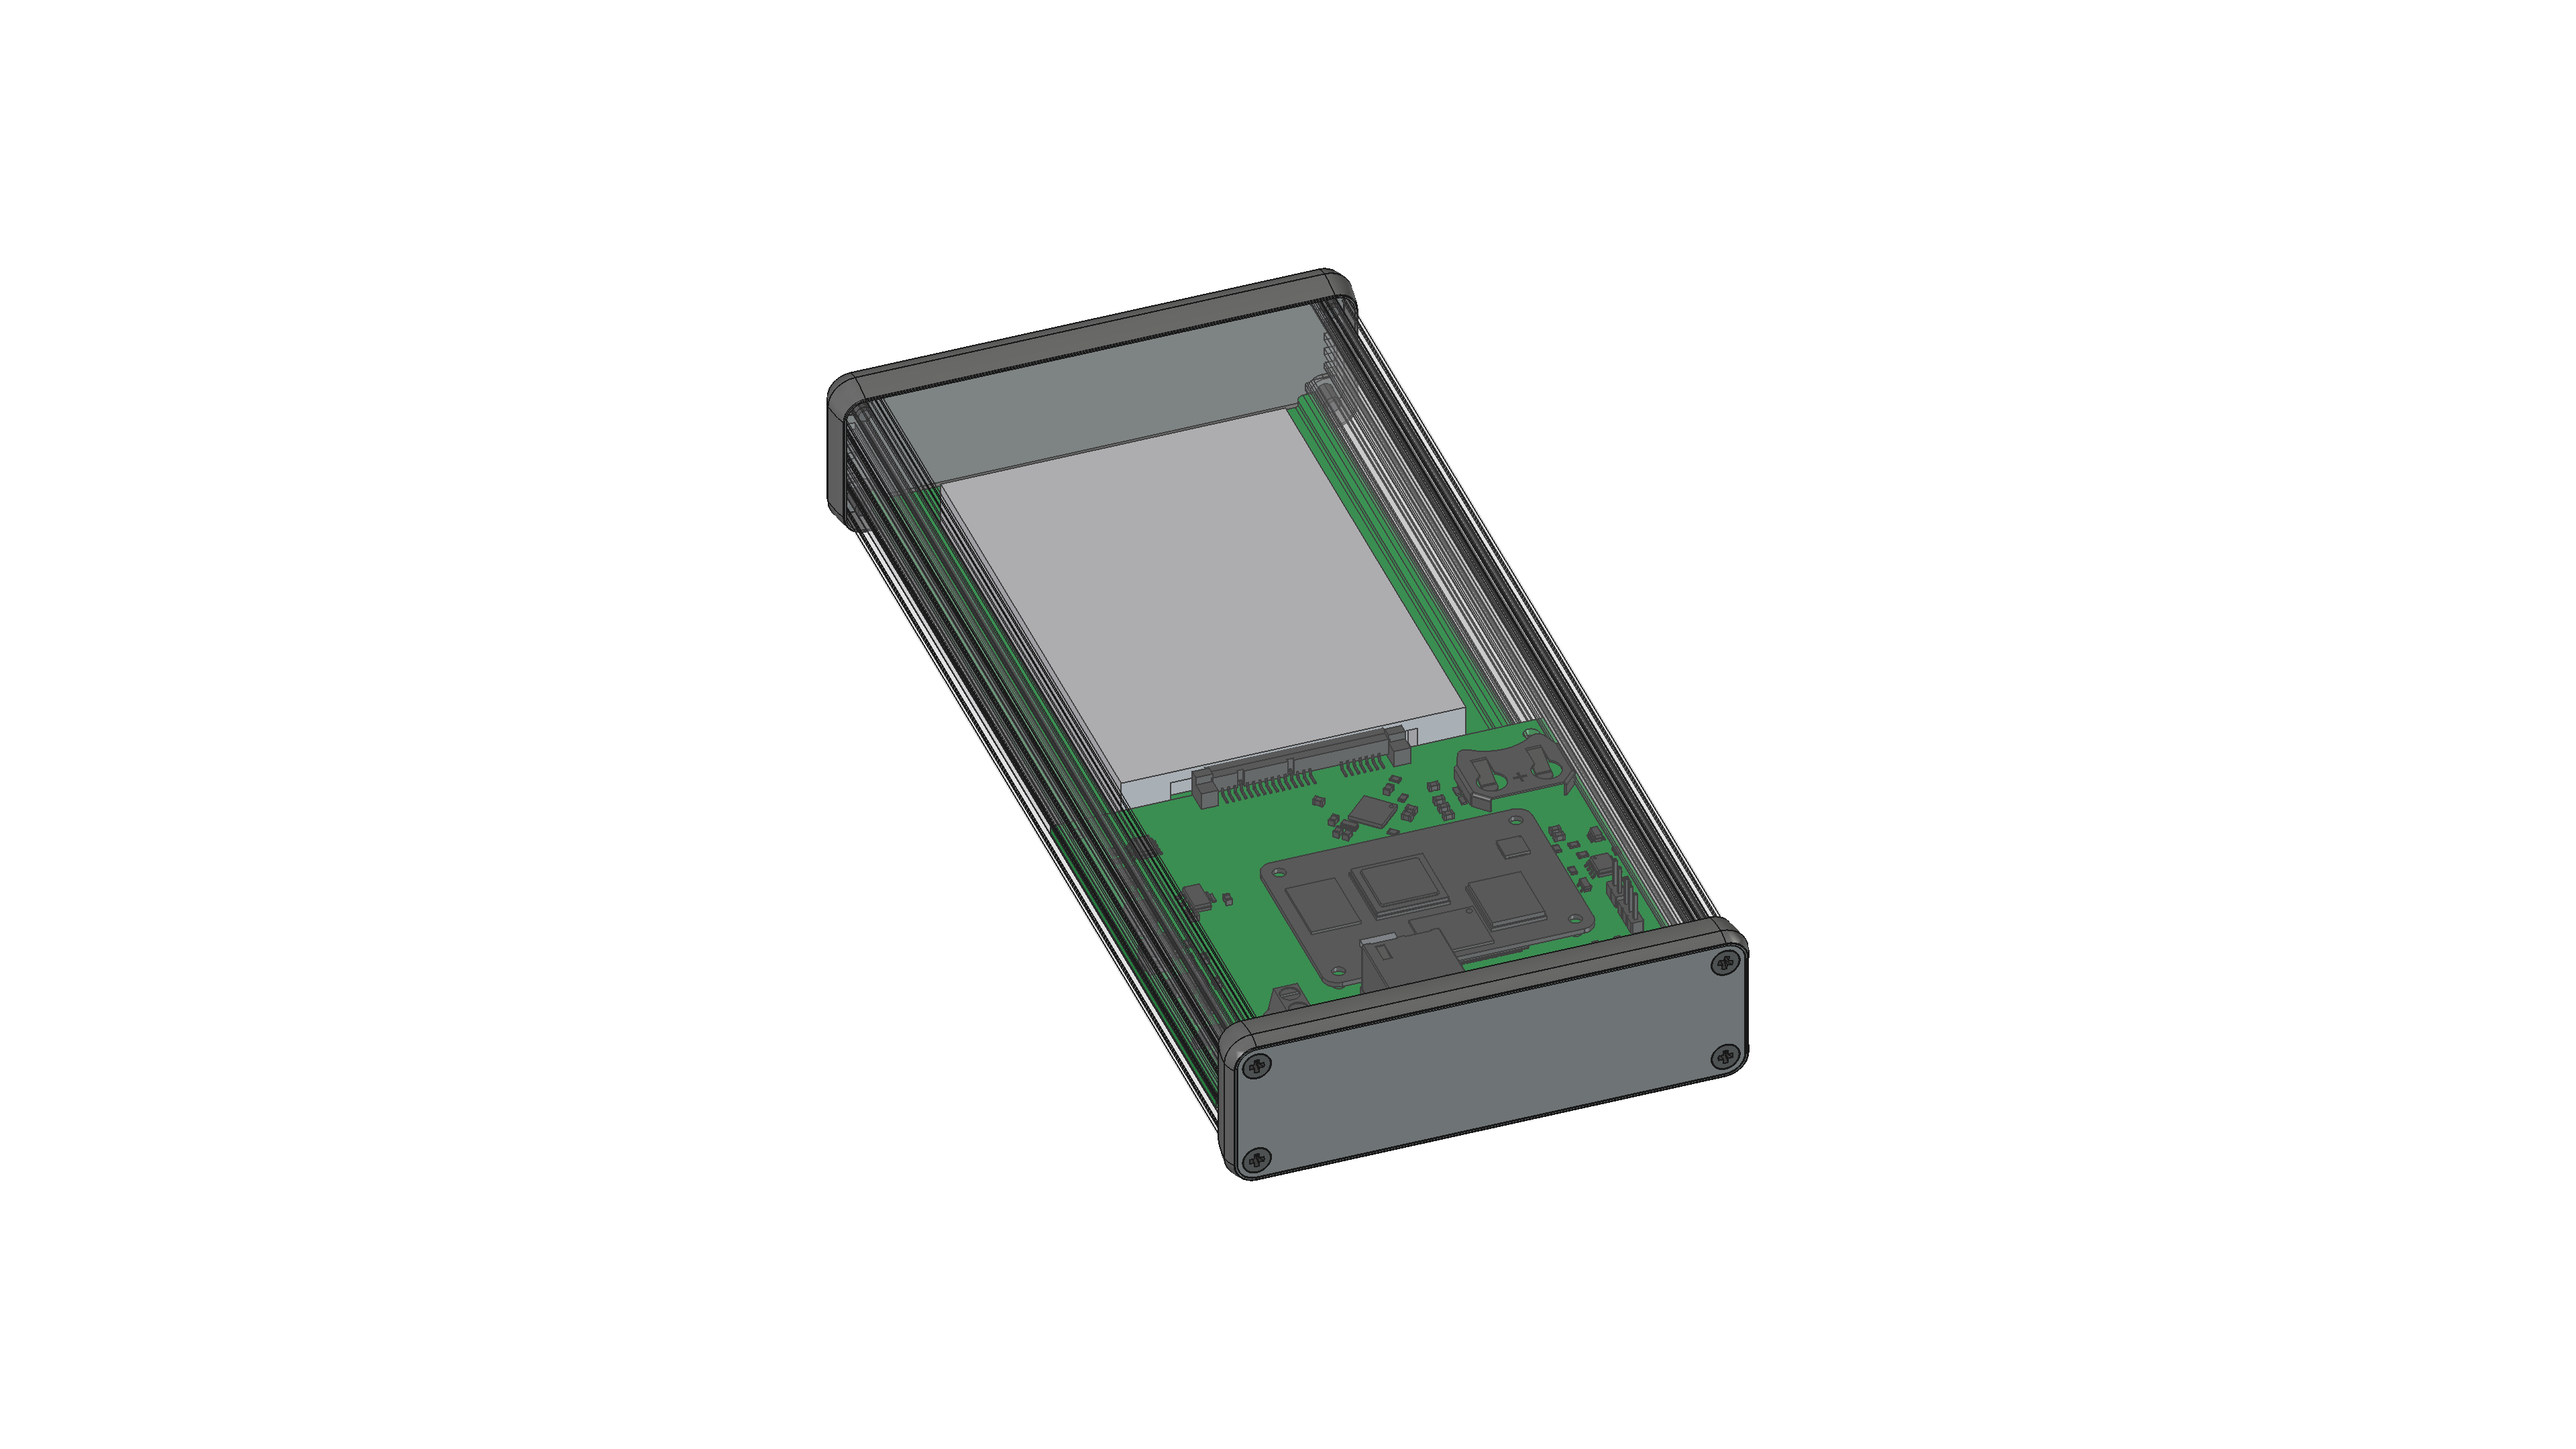
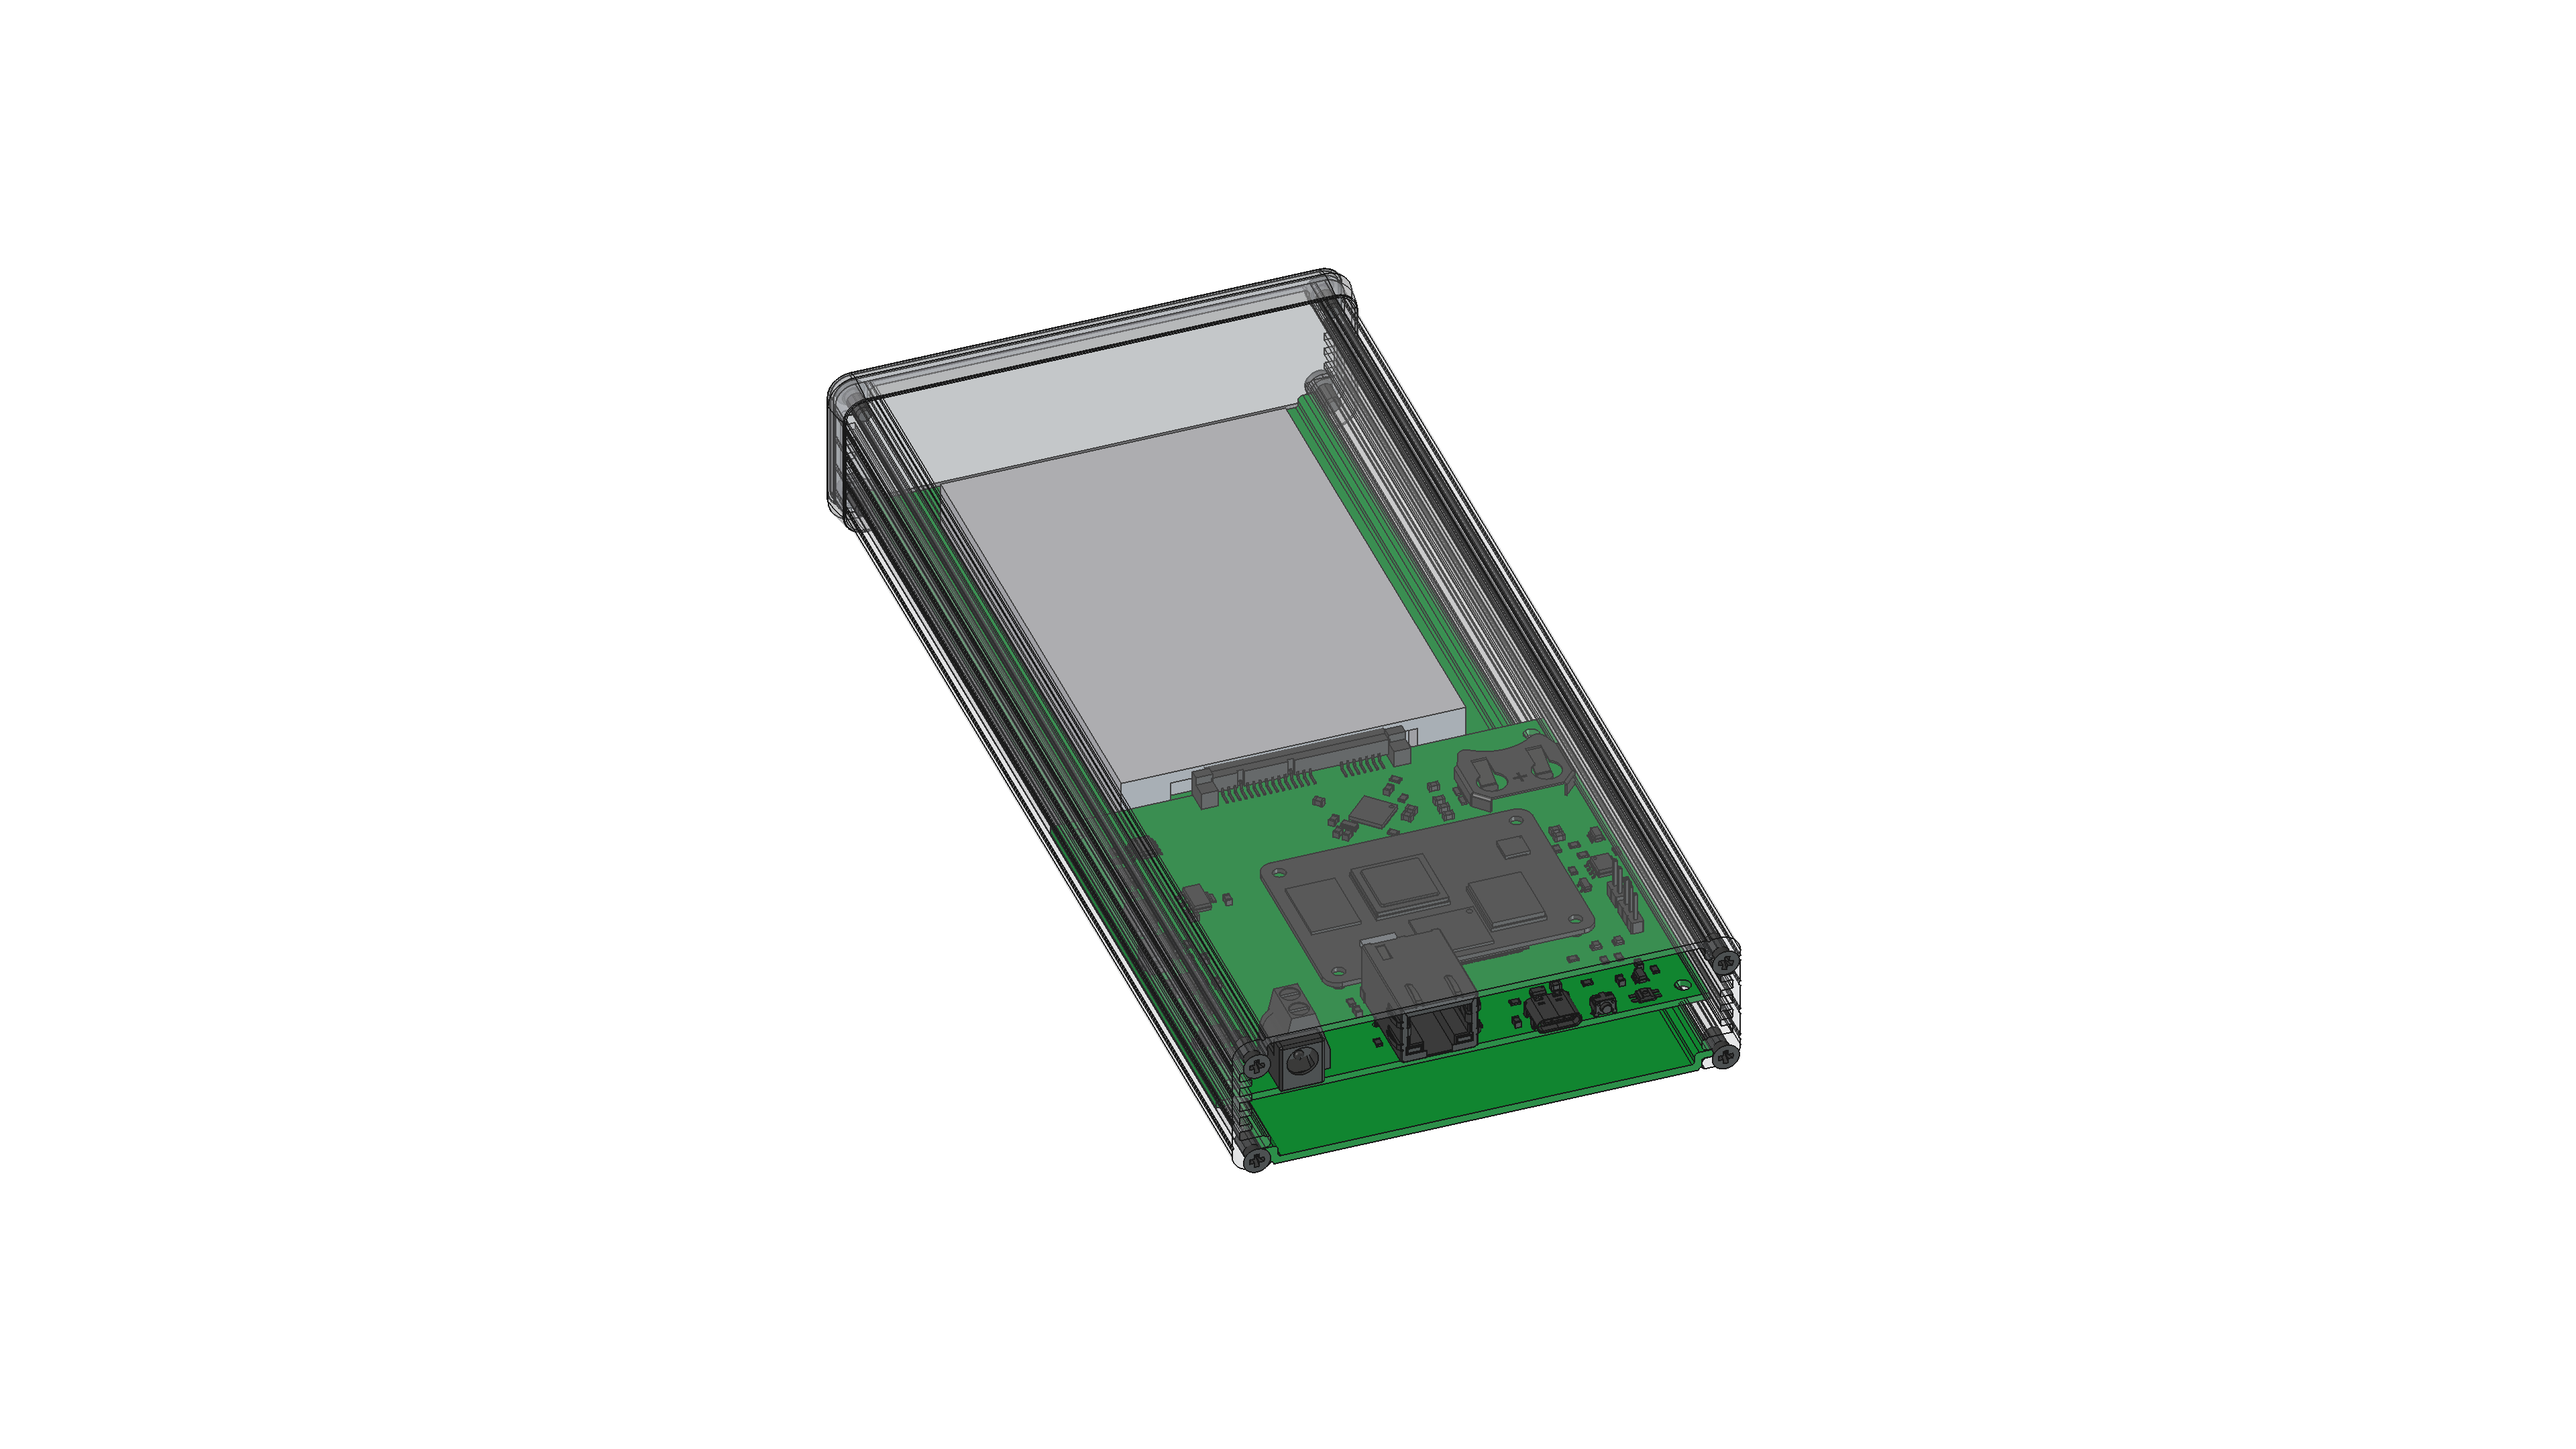
Fix front panel removal for slim case variant

Changed region(s): [[0.4688, 0.6204, 0.6875, 0.8375], [0.3125, 0.1861, 0.5312, 0.3722]]

diff --git a/mechanical/screenshot.py b/mechanical/screenshot.py
@@ -38,8 +38,8 @@ for obj in doc.Objects:
         if vol < 50000 and bb.XLength < 60 and bb.ZLength < 60:
             obj.ViewObject.ShapeColor = (0.2, 0.2, 0.2)
             continue
-        # Case end panels: hide the one at +Z (connector side) to see inside
-        if bb.YLength > 40 and bb.ZLength < 20 and bb.XLength > 100:
+        # Case end panels: tall-ish Y, thin Z, wide X
+        if bb.YLength > 20 and bb.ZLength < 20 and bb.XLength > 80:
             if bb.ZMin > 0:
                 obj.ViewObject.Visibility = False  # hide connector-side end panel
             else:
